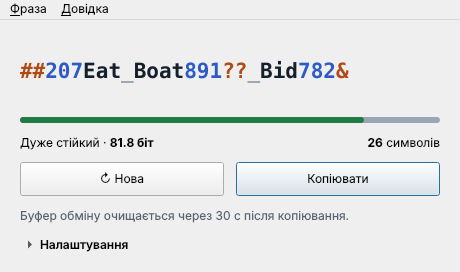
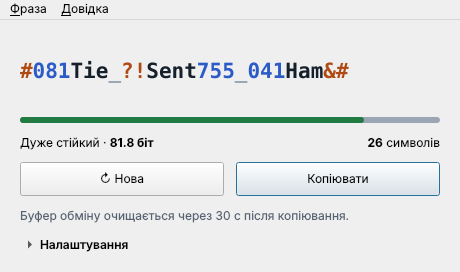
Add "letters per word" setting: exact count or min-max range
Config gains word_len_min/word_len_max (2-12); the generator keeps only
dictionary words in that range, so uniformity and the entropy estimate
still hold. Defaults cover the whole range, so existing settings and
custom wordlists behave as before.

GUI: a "Літер у слові" row with "рівно N" or "від N до M" modes.
CLI: --word-len 5 or --word-len 4-6. Messages use correct Ukrainian
plural forms. Docs, screenshots and changelog updated; bump to 1.1.0.

Changed region(s): [[0.0609, 0.2059, 0.7609, 0.3235]]

diff --git a/src/passgen/gui/main_window.py b/src/passgen/gui/main_window.py
@@ -35,6 +35,7 @@ from passgen.core import (
     MAX_LEN_RANGE,
     SEPARATOR_MAX,
     SYMBOLS_RANGE,
+    WORD_LEN_RANGE,
     WORDS_RANGE,
     Case,
     Config,
@@ -172,6 +173,7 @@ class MainWindow(QMainWindow):
 
         self.words_slider, words_row = self._slider_row(*WORDS_RANGE)
         form.addRow("Кількість слів", words_row)
+        form.addRow("Літер у слові", self._word_len_row())
         self.maxlen_slider, maxlen_row = self._slider_row(*MAX_LEN_RANGE)
         form.addRow("Максимальна довжина", maxlen_row)
 
@@ -234,6 +236,8 @@ class MainWindow(QMainWindow):
 
         for w in (
             self.words_slider,
+            self.word_len_min,
+            self.word_len_max,
             self.maxlen_slider,
             self.digits_min,
             self.digits_max,
@@ -244,6 +248,7 @@ class MainWindow(QMainWindow):
         self.symbol_set_edit.textChanged.connect(self._on_config_changed)
         self.separator_edit.textChanged.connect(self._on_config_changed)
         self.case_combo.currentIndexChanged.connect(self._on_config_changed)
+        self.word_len_mode.currentIndexChanged.connect(self._on_word_len_mode_changed)
         self.clear_spin.valueChanged.connect(self._on_app_option_changed)
         self.on_top_check.toggled.connect(self._on_app_option_changed)
 
@@ -261,6 +266,45 @@ class MainWindow(QMainWindow):
         lay.addWidget(slider, 1)
         lay.addWidget(value)
         return slider, row
+
+    def _word_len_row(self) -> QWidget:
+        """«рівно [5]» або «від [3] до [7]»: точна кількість літер чи діапазон."""
+        self.word_len_mode = QComboBox()
+        self.word_len_mode.addItem("рівно", "exact")
+        self.word_len_mode.addItem("від", "range")
+        self.word_len_mode.setToolTip("Точна кількість літер у кожному слові або діапазон")
+        self.word_len_min, self.word_len_max = QSpinBox(), QSpinBox()
+        for s in (self.word_len_min, self.word_len_max):
+            s.setRange(*WORD_LEN_RANGE)
+        self._word_len_to = QLabel("до")
+        a, b = self.word_len_min, self.word_len_max
+        # у режимі «рівно» максимум завжди дорівнює мінімуму; у «від–до» тягнемо інше поле
+        a.valueChanged.connect(
+            lambda v: b.setValue(v) if v > b.value() or self._word_len_exact() else None
+        )
+        b.valueChanged.connect(lambda v: a.setValue(v) if v < a.value() else None)
+        row = QWidget()
+        lay = QHBoxLayout(row)
+        lay.setContentsMargins(0, 0, 0, 0)
+        for w in (self.word_len_mode, a, self._word_len_to, b):
+            lay.addWidget(w)
+        lay.addStretch()
+        return row
+
+    def _word_len_exact(self) -> bool:
+        return self.word_len_mode.currentData() == "exact"
+
+    def _show_word_len_mode(self) -> None:
+        exact = self._word_len_exact()
+        self._word_len_to.setVisible(not exact)
+        self.word_len_max.setVisible(not exact)
+
+    def _on_word_len_mode_changed(self) -> None:
+        self._show_word_len_mode()
+        if self._word_len_exact():
+            # setValue сам викличе _on_config_changed, якщо значення зміниться
+            self.word_len_max.setValue(self.word_len_min.value())
+        self._on_config_changed()
 
     def _range_row(self, lo: int, hi: int) -> tuple[QSpinBox, QSpinBox, QWidget]:
         a, b = QSpinBox(), QSpinBox()
@@ -312,6 +356,13 @@ class MainWindow(QMainWindow):
         self._loading = True
         c = self.settings.config
         self.words_slider.setValue(c.words)
+        self.word_len_mode.setCurrentIndex(
+            self.word_len_mode.findData("exact" if c.word_len_min == c.word_len_max else "range")
+        )
+        self._show_word_len_mode()
+        self.word_len_max.setValue(WORD_LEN_RANGE[1])
+        self.word_len_min.setValue(c.word_len_min)
+        self.word_len_max.setValue(c.word_len_max)
         self.digits_min.setValue(c.digits_min)
         self.digits_max.setValue(c.digits_max)
         self.digits_min.setValue(c.digits_min)
@@ -330,6 +381,8 @@ class MainWindow(QMainWindow):
     def _config_from_widgets(self) -> Config:
         return Config(
             words=self.words_slider.value(),
+            word_len_min=self.word_len_min.value(),
+            word_len_max=self.word_len_max.value(),
             max_len=self.maxlen_slider.value(),
             digits_min=self.digits_min.value(),
             digits_max=self.digits_max.value(),

diff --git a/src/passgen/core.py b/src/passgen/core.py
@@ -26,6 +26,7 @@ ALLOWED_SYMBOLS = string.punctuation
 MAX_ATTEMPTS = 1000
 
 WORDS_RANGE = (1, 6)
+WORD_LEN_RANGE = (2, 12)  # як і обмеження на слова у власному словнику
 MAX_LEN_RANGE = (1, 128)
 DIGITS_RANGE = (0, 6)
 SYMBOLS_RANGE = (0, 4)
@@ -52,6 +53,9 @@ class Case(str, Enum):
 @dataclass(frozen=True)
 class Config:
     words: int = 3
+    # за замовчуванням без обмеження: увесь допустимий діапазон
+    word_len_min: int = WORD_LEN_RANGE[0]
+    word_len_max: int = WORD_LEN_RANGE[1]
     max_len: int = 26
     digits_min: int = 2
     digits_max: int = 3
@@ -100,6 +104,21 @@ class Passphrase:
                     yield kind, text
 
 
+def letters(n: int) -> str:
+    """1 літера, 3 літери, 5 літер, 12 літер."""
+    if n % 10 == 1 and n % 100 != 11:
+        return f"{n} літера"
+    if 2 <= n % 10 <= 4 and not 12 <= n % 100 <= 14:
+        return f"{n} літери"
+    return f"{n} літер"
+
+
+def word_len_text(config: Config) -> str:
+    """«рівно 5 літер» або «від 4 до 6 літер» — для повідомлень користувачу."""
+    lo, hi = config.word_len_min, config.word_len_max
+    return f"рівно {letters(lo)}" if lo == hi else f"від {lo} до {letters(hi)}"
+
+
 def unique_symbols(symbols: str) -> str:
     return "".join(dict.fromkeys(symbols))
 
@@ -113,6 +132,10 @@ def _check_range(name: str, value: int, bounds: tuple[int, int]) -> None:
 def validate(config: Config) -> None:
     """Перевіряє параметри, що не залежать від словника."""
     _check_range("Кількість слів", config.words, WORDS_RANGE)
+    _check_range("Мінімум літер у слові", config.word_len_min, WORD_LEN_RANGE)
+    _check_range("Максимум літер у слові", config.word_len_max, WORD_LEN_RANGE)
+    if config.word_len_min > config.word_len_max:
+        raise ConfigError("Мінімум літер у слові більший за максимум.")
     _check_range("Максимальна довжина", config.max_len, MAX_LEN_RANGE)
     _check_range("Мінімум цифр", config.digits_min, DIGITS_RANGE)
     _check_range("Максимум цифр", config.digits_max, DIGITS_RANGE)
@@ -156,11 +179,16 @@ class Generator:
         words = builtin_words() if words is None else normalize(words)
         if not words:
             raise ConfigError("Словник порожній.")
+        self.wordlist_size = len(words)
+        words = tuple(w for w in words if config.word_len_min <= len(w) <= config.word_len_max)
+        if not words:
+            raise ConfigError(f"У словнику немає слів довжиною {word_len_text(config)}.")
         if config.unique_words and len(words) < config.words:
             raise ConfigError(
-                f"У словнику {len(words)} слів, а потрібно {config.words} різних слів."
+                f"Слів довжиною {word_len_text(config)} у словнику лише {len(words)}, "
+                f"а потрібно {config.words} різних."
             )
-        self.wordlist_size = len(words)
+        self.usable_words = len(words)
 
         by_len: dict[int, list[str]] = defaultdict(list)
         for w in words:

diff --git a/tests/test_core.py b/tests/test_core.py
@@ -168,5 +168,68 @@ def test_empty_symbol_set_allowed_without_symbols():
 
 
 def test_unique_words_needs_enough_words():
-    with pytest.raises(ConfigError, match="різних слів"):
+    with pytest.raises(ConfigError, match="потрібно 3 різних"):
         Generator(Config(words=3, max_len=40), ["ab", "cd"])
+
+
+@pytest.mark.parametrize(("lo", "hi"), [(5, 5), (4, 6), (3, 3), (7, 7)])
+def test_word_length_limits(lo, hi):
+    cfg = Config(word_len_min=lo, word_len_max=hi, max_len=40)
+    gen = Generator(cfg, randbelow=seeded(lo * 10 + hi))
+    for _ in range(200):
+        assert all(lo <= len(s.word) <= hi for s in gen.generate().segments)
+
+
+def test_word_length_entropy_counts_only_matching_words():
+    # 2 слова по 2 літери, 1 слово з 3 літер; рівно 2 літери → 2·10·2·3! = 240 фраз
+    cfg = Config(
+        words=1,
+        max_len=10,
+        word_len_min=2,
+        word_len_max=2,
+        digits_min=1,
+        digits_max=1,
+        symbols_min=1,
+        symbols_max=1,
+        symbol_set="!?",
+    )
+    gen = Generator(cfg, SMALL_WORDS)
+    assert gen.usable_words == 2
+    assert gen.wordlist_size == 3
+    assert 2 ** gen.entropy_bits() == pytest.approx(240)
+
+
+def test_default_word_length_keeps_original_behaviour():
+    assert (
+        Generator().entropy_bits()
+        == Generator(Config(word_len_min=3, word_len_max=7)).entropy_bits()
+    )
+
+
+@pytest.mark.parametrize(
+    ("config", "message"),
+    [
+        (Config(word_len_min=6, word_len_max=4), "Мінімум літер у слові більший"),
+        (Config(word_len_min=1), "Мінімум літер у слові"),
+        (Config(word_len_max=13), "Максимум літер у слові"),
+        (Config(word_len_min=10, word_len_max=12), "немає слів довжиною від 10 до 12 літер"),
+        (Config(word_len_min=8, word_len_max=8), "немає слів довжиною рівно 8 літер"),
+    ],
+)
+def test_invalid_word_length(config, message):
+    with pytest.raises(ConfigError, match=message):
+        Generator(config)
+
+
+def test_letters_plural():
+    from passgen.core import letters
+
+    assert [letters(n) for n in (1, 2, 4, 5, 11, 12, 21)] == [
+        "1 літера",
+        "2 літери",
+        "4 літери",
+        "5 літер",
+        "11 літер",
+        "12 літер",
+        "21 літера",
+    ]

diff --git a/tests/test_gui.py b/tests/test_gui.py
@@ -164,3 +164,51 @@ def test_always_on_top_keeps_window_visible(window, qtbot):
     window.on_top_check.setChecked(False)
     assert not window.windowFlags() & Qt.WindowType.WindowStaysOnTopHint
     assert window.isVisible()
+
+
+def test_word_len_exact_mode(window):
+    window.word_len_mode.setCurrentIndex(window.word_len_mode.findData("exact"))
+    window.word_len_min.setValue(5)
+    assert window.word_len_max.isHidden()
+    assert window.word_len_max.value() == 5
+    assert window.settings.config.word_len_min == window.settings.config.word_len_max == 5
+    assert all(len(s.word) == 5 for s in window.phrase.segments)
+
+
+def test_word_len_range_mode(window):
+    window.word_len_mode.setCurrentIndex(window.word_len_mode.findData("range"))
+    window.maxlen_slider.setValue(40)
+    window.word_len_min.setValue(4)
+    window.word_len_max.setValue(6)
+    assert not window.word_len_max.isHidden()
+    assert all(4 <= len(s.word) <= 6 for s in window.phrase.segments)
+    # мінімум більший за максимум тягне максимум за собою
+    window.word_len_min.setValue(8)
+    assert window.word_len_max.value() == 8
+
+
+def test_word_len_switch_to_exact_collapses_range(window):
+    window.word_len_mode.setCurrentIndex(window.word_len_mode.findData("range"))
+    window.word_len_min.setValue(4)
+    window.word_len_max.setValue(6)
+    window.word_len_mode.setCurrentIndex(window.word_len_mode.findData("exact"))
+    assert window.word_len_max.value() == 4
+    assert window.settings.config.word_len_max == 4
+
+
+def test_word_len_without_matching_words_shows_error(window):
+    window.word_len_mode.setCurrentIndex(window.word_len_mode.findData("exact"))
+    window.word_len_min.setValue(10)
+    assert window.phrase is None
+    assert "немає слів довжиною рівно 10 літер" in window.config_error.text()
+
+
+def test_word_len_mode_restored_from_settings(qtbot):
+    w = MainWindow(AppSettings(config=Config(word_len_min=6, word_len_max=6, max_len=30)))
+    qtbot.addWidget(w)
+    assert w.word_len_mode.currentData() == "exact"
+    assert w.word_len_min.value() == 6
+    w2 = MainWindow(AppSettings())
+    qtbot.addWidget(w2)
+    assert w2.word_len_mode.currentData() == "range"
+    assert (w2.word_len_min.value(), w2.word_len_max.value()) == (2, 12)

diff --git a/tests/test_cli_settings_wordlist.py b/tests/test_cli_settings_wordlist.py
@@ -1,5 +1,6 @@
 import json
 import os
+import re
 import subprocess
 import sys
 
@@ -150,3 +151,26 @@ def test_cli_survives_non_utf8_console():
     )
     assert out.returncode == 0, out.stderr.decode("utf-8", "replace")
     assert "Парольна фраза" in out.stdout.decode("utf-8")
+
+
+@pytest.mark.parametrize(("arg", "lo", "hi"), [("5", 5, 5), ("4-6", 4, 6)])
+def test_cli_word_len(capsys, arg, lo, hi):
+    main(["-n", "20", "--plain", "--word-len", arg, "--max-len", "40", "--case", "lower"])
+    for line in capsys.readouterr().out.splitlines():
+        words = re.findall(r"[a-z]+", line)
+        assert len(words) == 3
+        assert all(lo <= len(w) <= hi for w in words)
+
+
+def test_settings_roundtrip_word_len(tmp_path):
+    path = tmp_path / "s.json"
+    s = settings.AppSettings(config=Config(word_len_min=4, word_len_max=4, max_len=30))
+    settings.save(s, path)
+    assert settings.load(path).config.word_len_min == 4
+
+
+def test_old_settings_without_word_len(tmp_path):
+    path = tmp_path / "s.json"
+    path.write_text(json.dumps({"config": {"words": 4, "max_len": 40}}))
+    cfg = settings.load(path).config
+    assert (cfg.words, cfg.word_len_min, cfg.word_len_max) == (4, 2, 12)

diff --git a/src/passgen/cli.py b/src/passgen/cli.py
@@ -42,6 +42,13 @@ def build_parser() -> argparse.ArgumentParser:
     ap.add_argument("--max-len", type=int, default=d.max_len, help=f"макс. довжина ({d.max_len})")
     ap.add_argument("--words", type=int, default=d.words, help=f"кількість слів ({d.words})")
     ap.add_argument(
+        "--word-len",
+        type=_range,
+        default=(d.word_len_min, d.word_len_max),
+        metavar="N|MIN-MAX",
+        help="літер у слові: рівно N (5) або діапазон (4-6); за замовчуванням без обмеження",
+    )
+    ap.add_argument(
         "--digits",
         type=_range,
         default=(d.digits_min, d.digits_max),
@@ -78,6 +85,8 @@ def main(argv: list[str] | None = None) -> int:
         ap.error("--count має бути від 1 до 10000")
     config = Config(
         words=args.words,
+        word_len_min=args.word_len[0],
+        word_len_max=args.word_len[1],
         max_len=args.max_len,
         digits_min=args.digits[0],
         digits_max=args.digits[1],

diff --git a/src/passgen/__init__.py b/src/passgen/__init__.py
@@ -2,7 +2,7 @@
 
 from passgen.core import Case, Config, ConfigError, Generator, Passphrase
 
-__version__ = "1.0.2"
+__version__ = "1.1.0"
 __author__ = "mykhailoshchavinskyi"
 __email__ = "mykhailo.shchavinskyi@gmail.com"
 __all__ = [

diff --git a/README.md b/README.md
@@ -7,7 +7,7 @@
 <img src="docs/images/main-window.png" alt="Головне вікно Passgen" width="460">
 
 - Усі фрази, що відповідають налаштуванням, рівноймовірні. Використовується криптографічно стійкий генератор (`secrets`).
-- Можна змінювати кількість слів, максимальну довжину, кількість цифр і символів, набір спецсимволів, роздільник, регістр і словник.
+- Можна змінювати кількість слів, кількість літер у слові (рівно N або від–до), максимальну довжину, кількість цифр і символів, набір спецсимволів, роздільник, регістр і словник.
 - Шкала показує стійкість у бітах.
 - Буфер обміну автоматично очищається, а фраза позначається як секретна для менеджерів буфера.
 - Програма працює без інтернету і ніде не зберігає паролі.

diff --git a/CHANGELOG.md b/CHANGELOG.md
@@ -1,5 +1,10 @@
 # Зміни
 
+## 1.1.0
+
+- Нове налаштування «Літер у слові»: рівно N літер або діапазон від–до. У консольному режимі — `--word-len 5` або `--word-len 4-6`.
+- За замовчуванням довжина слова не обмежена, тож попередні налаштування і власні словники працюють як раніше.
+
 ## 1.0.2
 
 - Виправлено: після ввімкнення чи вимкнення «Поверх усіх вікон» вікно зникало (на Windows). Тепер воно лишається видимим на тому самому місці.
